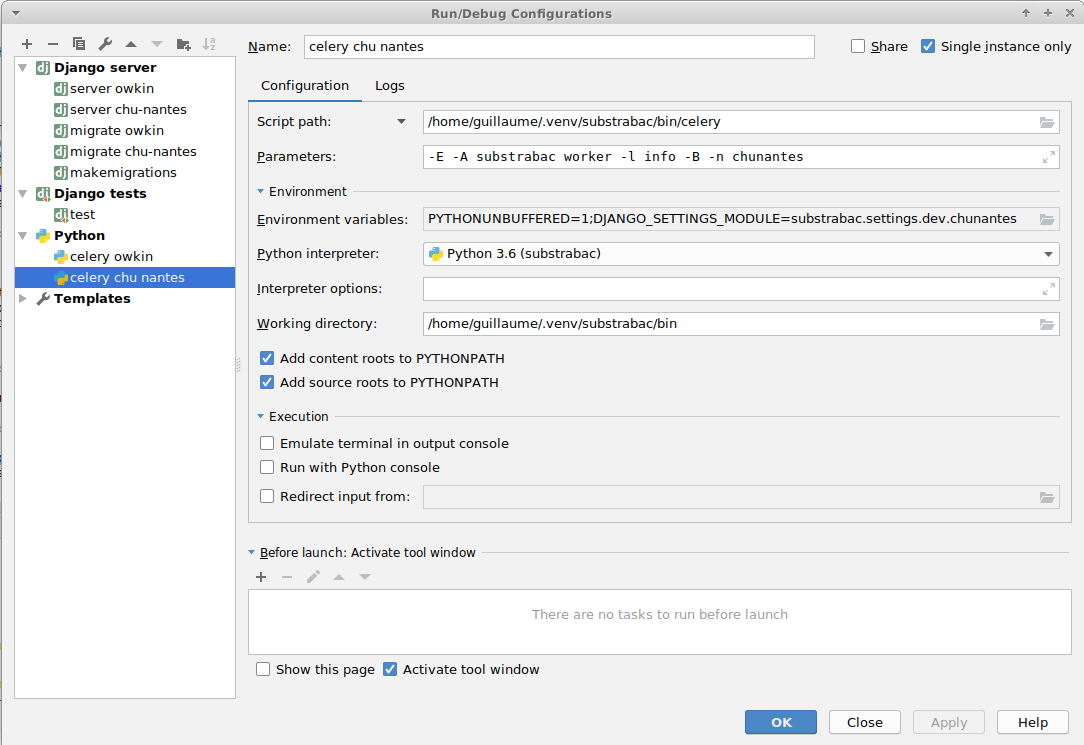
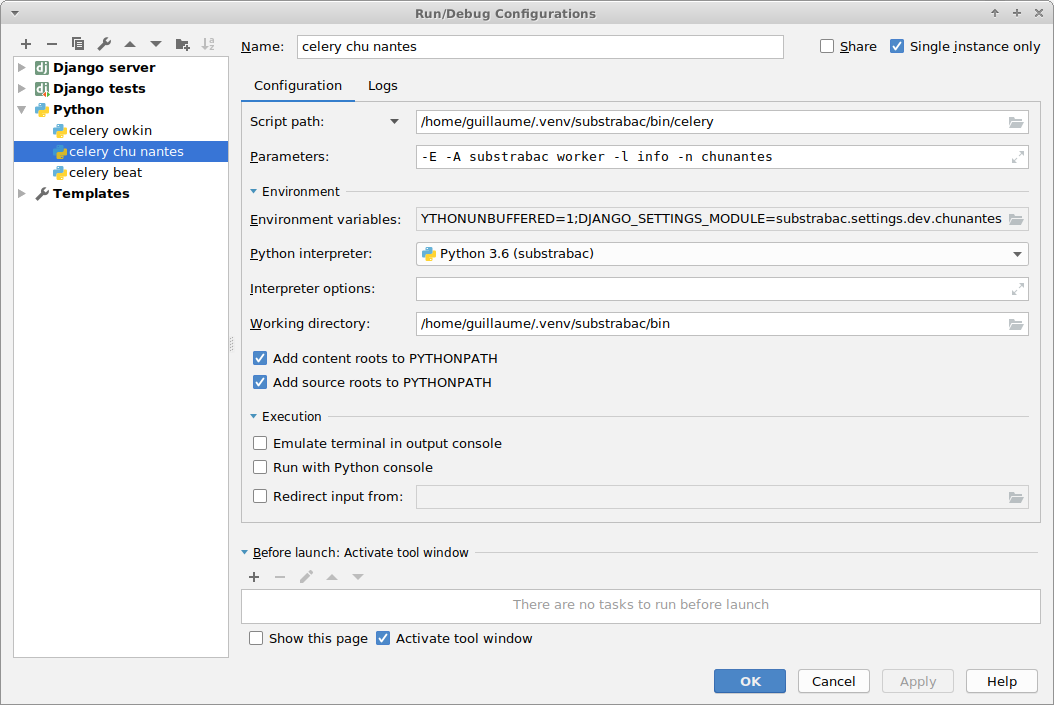
update README for using celery beat correctly

diff --git a/substrabac/substrapp/tasks.py b/substrabac/substrapp/tasks.py
@@ -105,7 +105,7 @@ def prepareTask(data_type, worker_to_filter, status_to_filter, model_type, statu
                             instance, created = Challenge.objects.update_or_create(pkhash=challengeHash, validated=True)
                             instance.metrics.save('metrics.py', f)
                         except:
-                            raise Exception('Failed to save challenge metrics in local db for later use')
+                            return fail(traintuple['key'], 'Failed to save challenge metrics in local db for later use')
                 else:
                     if not challenge.metrics:
                         # get challenge metrics
@@ -123,7 +123,7 @@ def prepareTask(data_type, worker_to_filter, status_to_filter, model_type, statu
                                                                                        validated=True)
                                 instance.metrics.save('metrics.py', f)
                             except:
-                                raise Exception('Failed to save challenge metrics in local db for later use')
+                                return fail(traintuple['key'], 'Failed to save challenge metrics in local db for later use')
 
                 ''' get algo + model_type '''
                 # get algo file

diff --git a/README.md b/README.md
@@ -148,6 +148,7 @@ Use these configurations for easier debugging and productivity:
 ![](assets/server_chunantes.png) 
 ![](assets/celery_owkin.png) 
 ![](assets/celery_chunantes.png) 
+![](assets/celery_beat.png)
 
 Do not hesitate to put breakpoints in your code. Even with periodic celery tasks and hit the `bug` button for launching your pre configurations.
 
